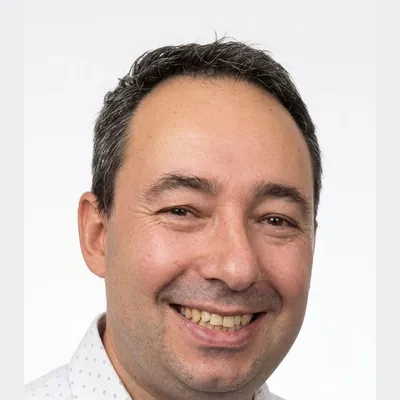
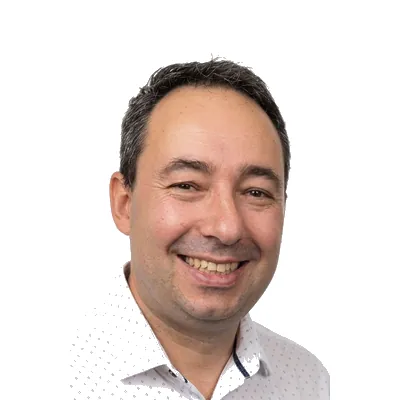
photo maj

diff --git a/a-propos.html b/a-propos.html
@@ -256,7 +256,7 @@
           <div class="team-card fade-up">
             <div class="team-photo-wrap">
               <img
-                src="assets/images/temoignages/silvain.webp"
+                src="assets/images/temoignages/silvain-v2.webp"
                 alt="Silvain Pinard, formateur Synitier"
                 width="120"
                 height="120"
